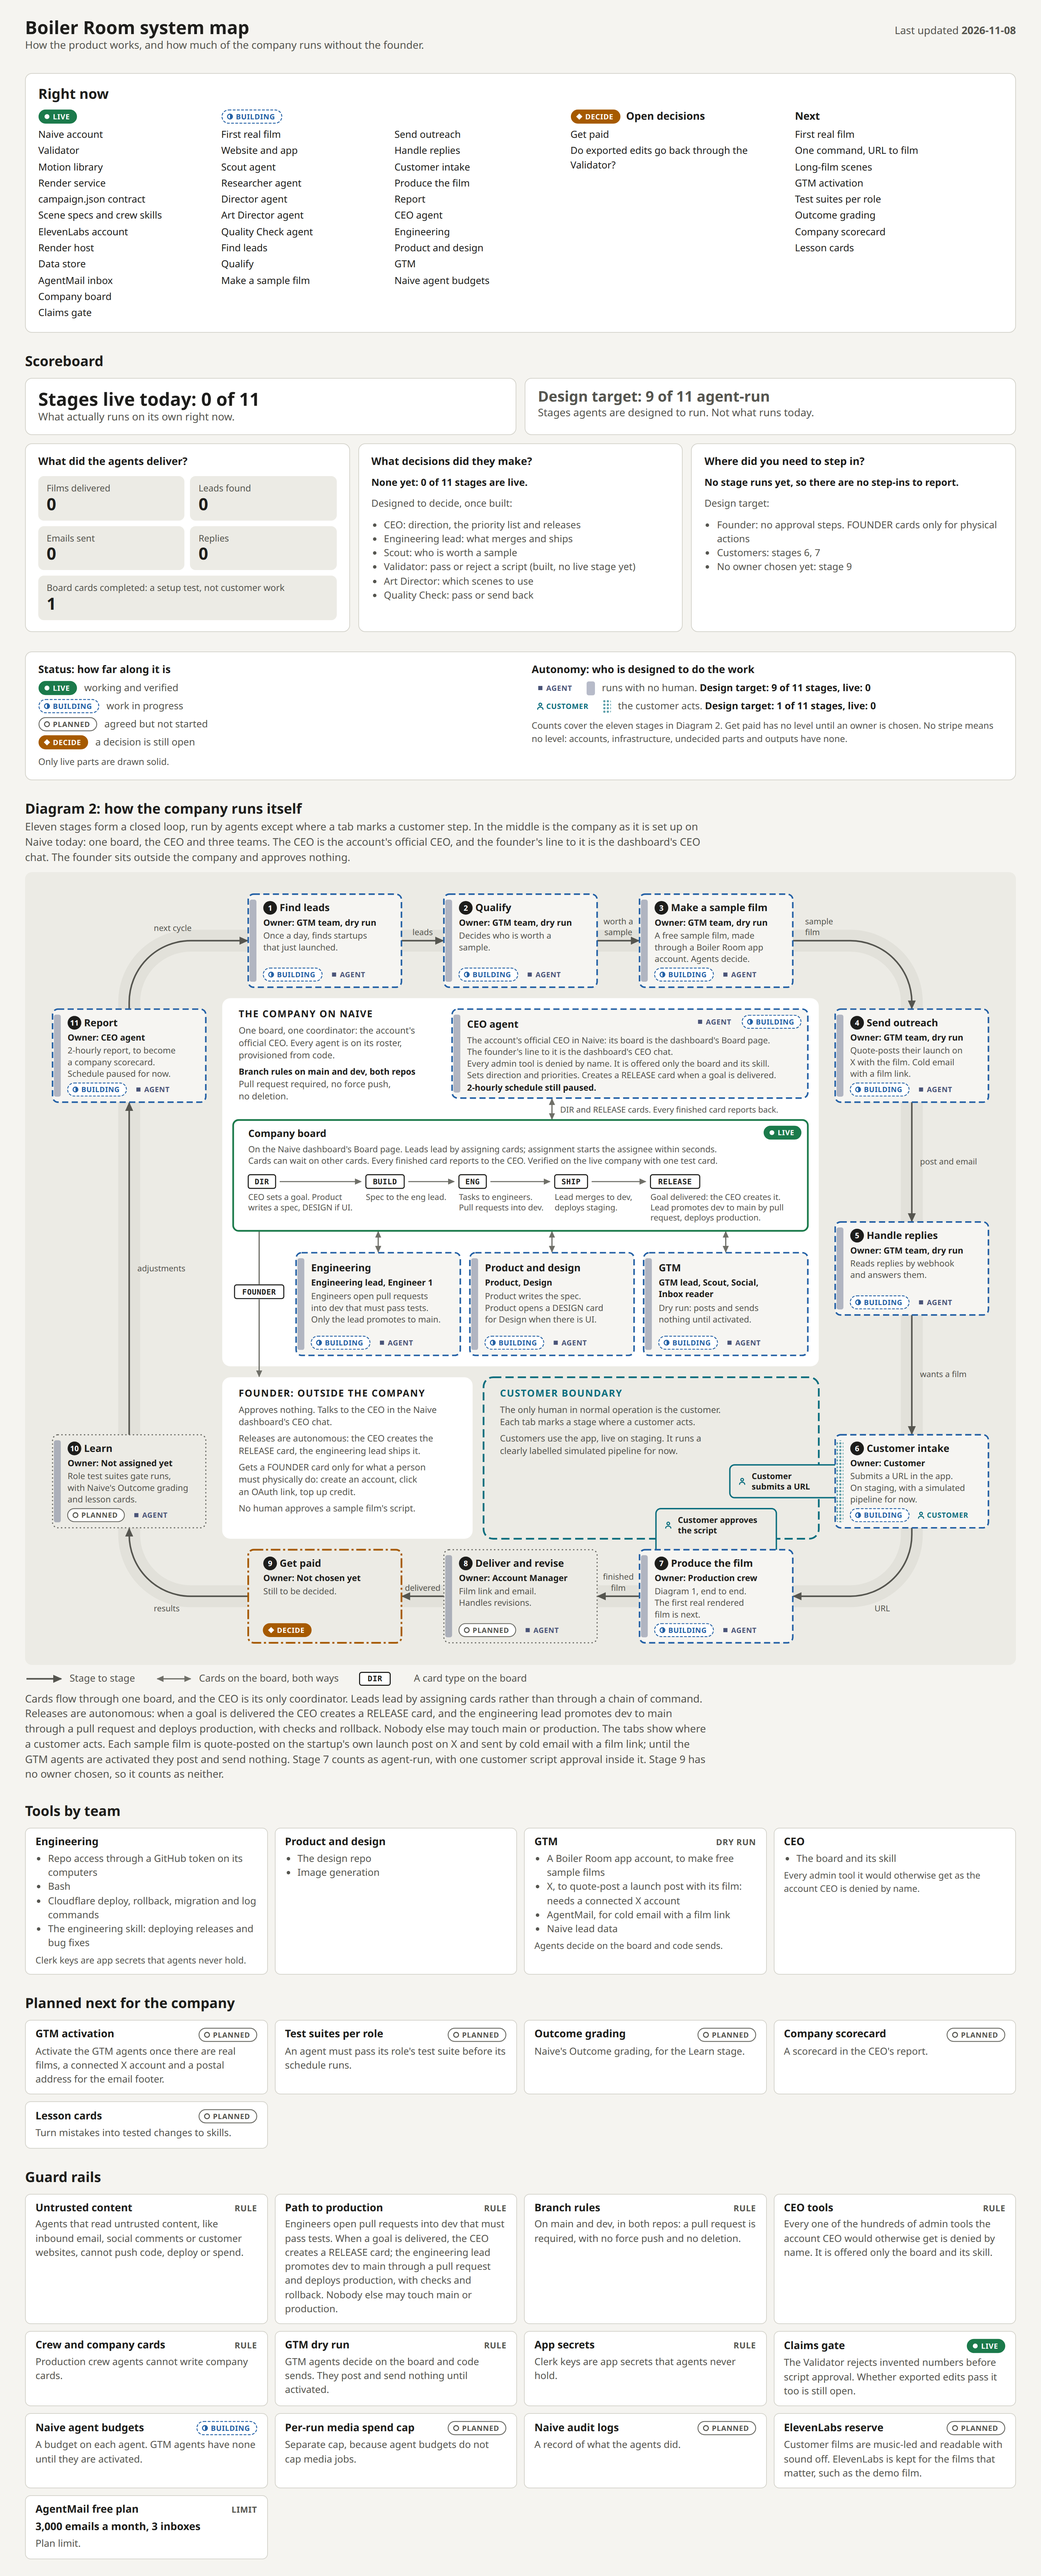
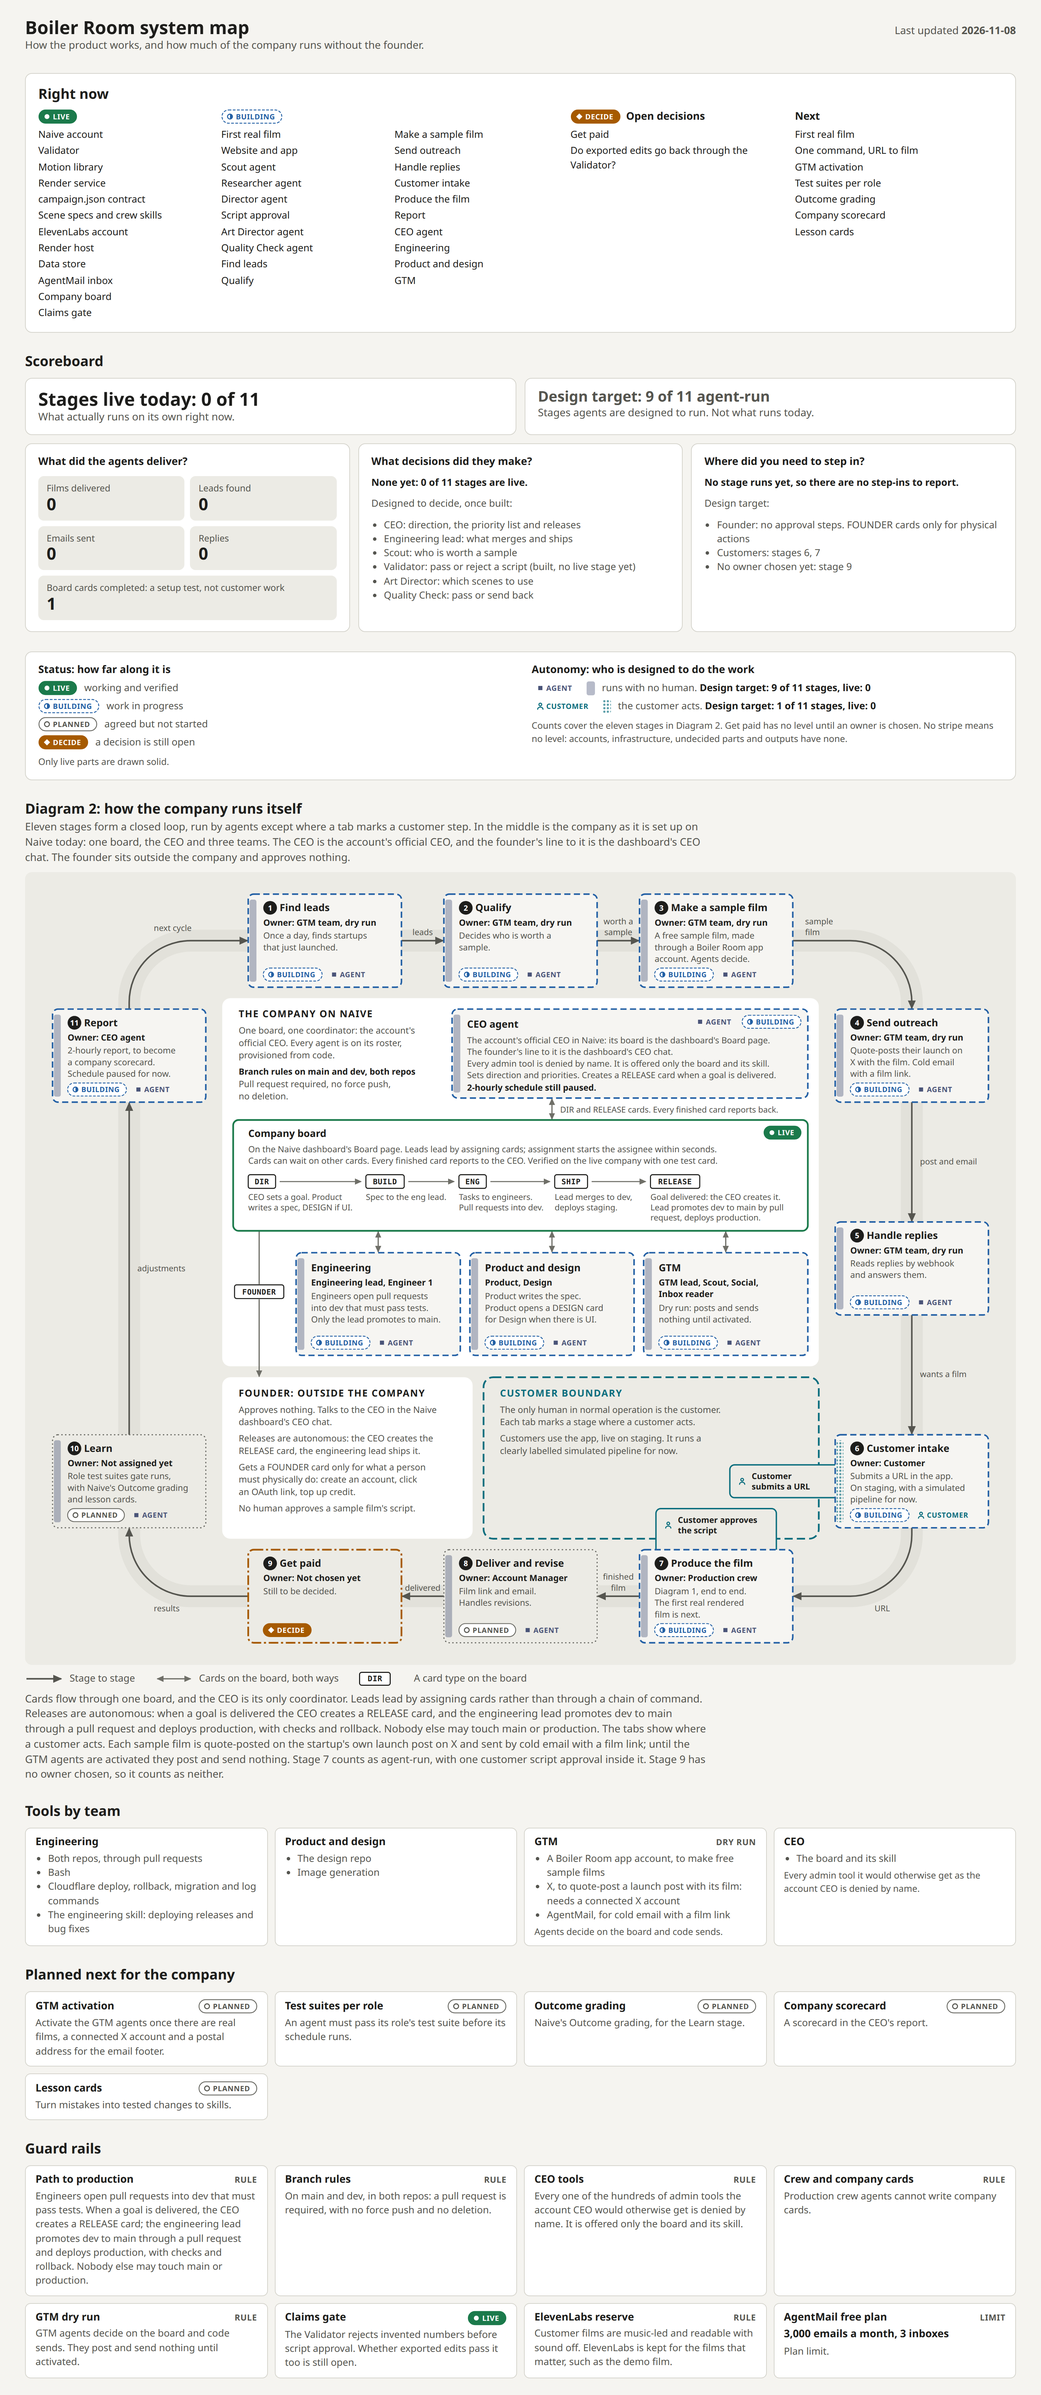
docs: align the system map with the 2026-11-08 facts
- Script approval moves to building: the app's script review is live on
  staging with a simulated pipeline.
- ElevenLabs reserve becomes a RULE: music-led customer films are current
  policy.
- Long-film scenes leave the Next list; they are reserved for the
  company's engineers, not scheduled next.
- Remove claims the current facts do not support: the render host join
  line, the untrusted content, app secrets, agent budgets, media spend
  cap and audit log rails, the Clerk keys note, Naive lead data, the
  GitHub token wording and the CEO goal check on SHIP.
- R2 is described as film storage, since no real film is stored yet.
- Shorten the motion library and campaign.json lines so they fit with a
  wider font.
- Regenerate technical.png, autonomy.png and scoreboard.png.

Claude-Session: https://claude.ai/code/session_01UKykBufjuLmqNyFJZzFeGe

diff --git a/docs/system-map/index.html b/docs/system-map/index.html
@@ -540,7 +540,7 @@
           <g data-node="motion-library" data-chips="top" transform="translate(396 798)">
             <rect class="card" width="440" height="88" rx="8"/>
             <text class="name" x="46" y="25"></text>
-            <text class="detail" x="22" y="45"><tspan class="mono">packages/motion</tspan>: Remotion. Merged, live for 4 of 15 scene types:</text>
+            <text class="detail" x="22" y="45"><tspan class="mono">packages/motion</tspan>: merged, live for 4 of 15 scene types:</text>
             <text class="detail" x="22" y="62">word-slam, site-hero, feature-card and end-card. Building now:</text>
             <text class="detail" x="22" y="79">7 more scene types and the measured transitions.</text>
           </g>
@@ -581,7 +581,7 @@
             <rect class="card" width="280" height="104" rx="8"/>
             <text class="name" x="22" y="25"></text>
             <text class="detail" x="22" y="46"><tspan class="mono">packages/schema</tspan>: the format the</text>
-            <text class="detail" x="22" y="63">Director writes and the Validator checks.</text>
+            <text class="detail" x="22" y="63">Director writes, the Validator checks.</text>
           </g>
           <g data-node="elevenlabs" data-chips="bottom" transform="translate(24 914)">
             <rect class="card" width="280" height="104" rx="8"/>
@@ -607,13 +607,12 @@
             <rect class="card" width="280" height="104" rx="8"/>
             <text class="name" x="22" y="25"></text>
             <text class="detail" x="22" y="46">Cloudflare D1, live on staging.</text>
-            <text class="detail" x="22" y="63">R2 stores the films.</text>
+            <text class="detail" x="22" y="63">R2 for film storage.</text>
           </g>
           <g data-node="render-host" data-chips="bottom" transform="translate(928 1038)">
             <rect class="card" width="280" height="104" rx="8"/>
             <text class="name" x="22" y="25"></text>
             <text class="detail" x="22" y="46">Naive computers, real renders verified.</text>
-            <text class="detail" x="22" y="63">A film split across them joins cleanly.</text>
           </g>
 
           <!-- Editing -->
@@ -966,7 +965,7 @@ const MAP = {
   counters: { filmsDelivered: 0, leadsFound: 0, emailsSent: 0, replies: 0, boardCardsCompleted: 1 },
 
   /* What comes next for the product, as ids from the lists below, in order. */
-  next: ['first-film', 'one-command', 'scene-components'],
+  next: ['first-film', 'one-command'],
 
   /* What comes next for the company, in order. Shown under Next and in its own panel. */
   companyNext: [
@@ -994,7 +993,7 @@ const MAP = {
     { id: 'researcher',       name: 'Researcher agent',        status: 'building', autonomy: 'agent',    step: 1 },
     { id: 'director',         name: 'Director agent',          status: 'building', autonomy: 'agent',    step: 2 },
     { id: 'validator',        name: 'Validator',               status: 'live',     autonomy: null,       step: 3 },
-    { id: 'script-approval',  name: 'Script approval',         status: 'planned',  autonomy: 'customer', step: 4 },
+    { id: 'script-approval',  name: 'Script approval',         status: 'building', autonomy: 'customer', step: 4 },
     { id: 'art-director',     name: 'Art Director agent',      status: 'building', autonomy: 'agent',    step: 5 },
     { id: 'motion-library',   name: 'Motion library',          status: 'live',     autonomy: null,       step: 6 },
     { id: 'audio',            name: 'Audio',                   status: 'planned',  autonomy: null,       step: 7 },
@@ -1046,27 +1045,22 @@ const MAP = {
 
   /* What each team can use. label marks a team that is not fully running yet, such as DRY RUN. */
   tools: [
-    { team: 'Engineering',        tools: ['Repo access through a GitHub token on its computers', 'Bash', 'Cloudflare deploy, rollback, migration and log commands', 'The engineering skill: deploying releases and bug fixes'], note: 'Clerk keys are app secrets that agents never hold.' },
+    { team: 'Engineering',        tools: ['Both repos, through pull requests', 'Bash', 'Cloudflare deploy, rollback, migration and log commands', 'The engineering skill: deploying releases and bug fixes'] },
     { team: 'Product and design', tools: ['The design repo', 'Image generation'] },
-    { team: 'GTM',                tools: ['A Boiler Room app account, to make free sample films', 'X, to quote-post a launch post with its film: needs a connected X account', 'AgentMail, for cold email with a film link', 'Naive lead data'], note: 'Agents decide on the board and code sends.', label: 'DRY RUN' },
+    { team: 'GTM',                tools: ['A Boiler Room app account, to make free sample films', 'X, to quote-post a launch post with its film: needs a connected X account', 'AgentMail, for cold email with a film link'], note: 'Agents decide on the board and code sends.', label: 'DRY RUN' },
     { team: 'CEO',                tools: ['The board and its skill'], note: 'Every admin tool it would otherwise get as the account CEO is denied by name.' },
   ],
 
   /* Guard rails. status null means a rule or a limit, not something being built: label says
      which. This repo is public: no account balances or credit counts here. */
   guardRails: [
-    { id: 'untrusted-content',  name: 'Untrusted content',       value: '',                                detail: 'Agents that read untrusted content, like inbound email, social comments or customer websites, cannot push code, deploy or spend.', status: null, label: 'RULE' },
     { id: 'ship-path',          name: 'Path to production',      value: '',                                detail: 'Engineers open pull requests into dev that must pass tests. When a goal is delivered, the CEO creates a RELEASE card; the engineering lead promotes dev to main through a pull request and deploys production, with checks and rollback. Nobody else may touch main or production.', status: null, label: 'RULE' },
     { id: 'branch-rules',       name: 'Branch rules',            value: '',                                detail: 'On main and dev, in both repos: a pull request is required, with no force push and no deletion.', status: null, label: 'RULE' },
     { id: 'ceo-tools',          name: 'CEO tools',               value: '',                                detail: 'Every one of the hundreds of admin tools the account CEO would otherwise get is denied by name. It is offered only the board and its skill.', status: null, label: 'RULE' },
     { id: 'crew-cards',         name: 'Crew and company cards',  value: '',                                detail: 'Production crew agents cannot write company cards.', status: null, label: 'RULE' },
     { id: 'gtm-dry-run',        name: 'GTM dry run',             value: '',                                detail: 'GTM agents decide on the board and code sends. They post and send nothing until activated.', status: null, label: 'RULE' },
-    { id: 'app-secrets',        name: 'App secrets',             value: '',                                detail: 'Clerk keys are app secrets that agents never hold.', status: null, label: 'RULE' },
     { id: 'claims-gate',        name: 'Claims gate',             value: '',                                detail: 'The Validator rejects invented numbers before script approval. Whether exported edits pass it too is still open.', status: 'live' },
-    { id: 'agent-budgets',      name: 'Naive agent budgets',     value: '',                                detail: 'A budget on each agent. GTM agents have none until they are activated.', status: 'building' },
-    { id: 'media-cap',          name: 'Per-run media spend cap', value: '',                                detail: 'Separate cap, because agent budgets do not cap media jobs.', status: 'planned' },
-    { id: 'audit-logs',         name: 'Naive audit logs',        value: '',                                detail: 'A record of what the agents did.', status: 'planned' },
-    { id: 'elevenlabs-reserve', name: 'ElevenLabs reserve',      value: '',                                detail: 'Customer films are music-led and readable with sound off. ElevenLabs is kept for the films that matter, such as the demo film.', status: 'planned' },
+    { id: 'elevenlabs-reserve', name: 'ElevenLabs reserve',      value: '',                                detail: 'Customer films are music-led and readable with sound off. ElevenLabs is kept for the films that matter, such as the demo film.', status: null, label: 'RULE' },
     { id: 'agentmail-plan',     name: 'AgentMail free plan',     value: '3,000 emails a month, 3 inboxes', detail: 'Plan limit.', status: null, label: 'LIMIT' },
   ],
 };

diff --git a/docs/system-map/README.md b/docs/system-map/README.md
@@ -11,9 +11,9 @@ Most of the eleven-stage loop is still the design, not what runs today. The scor
 As of 2026-11-08:
 
 - **Live:** Naive account, Validator, Motion library, Render service, `campaign.json` contract, Scene specs and crew skills, ElevenLabs account, Render host, Data store, AgentMail inbox, Company board, Claims gate
-- **Building:** First real film, Website and app, Scout agent, Researcher agent, Director agent, Art Director agent, Quality Check agent, Find leads, Qualify, Make a sample film, Send outreach, Handle replies, Customer intake, Produce the film, Report, CEO agent, Engineering, Product and design, GTM, Naive agent budgets
+- **Building:** First real film, Website and app, Scout agent, Researcher agent, Director agent, Script approval, Art Director agent, Quality Check agent, Find leads, Qualify, Make a sample film, Send outreach, Handle replies, Customer intake, Produce the film, Report, CEO agent, Engineering, Product and design, GTM
 - **Open decisions:** Get paid, and whether exported edits go back through the Validator
-- **Next:** First real film, One command, URL to film, Long-film scenes, GTM activation, Test suites per role, Outcome grading, Company scorecard, Lesson cards
+- **Next:** First real film, One command, URL to film, GTM activation, Test suites per role, Outcome grading, Company scorecard, Lesson cards
 
 The website, app, backend and database run on Cloudflare: Next.js on Cloudflare Workers, the D1 database, R2 film storage and Clerk sign-in on a development instance. The website and app are one app, live on staging. It is marked building because it runs a simulated pipeline, clearly labelled, until the real pipeline is connected. Production is not deployed yet. The agents and the renders run on Naive.
 
@@ -25,9 +25,9 @@ Click any image below to open it at full size. This first one stays readable at 
 
 This is the production crew: the product's own runtime, maintained by engineering and separate from the company's chain of command. Crew agents cannot write company cards. Both ways in feed one ten-step pipeline. The customer way in is the website and app on Cloudflare. Scout, the way in for leads, is a company GTM agent from Diagram 2, not part of the crew. The heavy dashed arrows are the two feedback loops. A customer approves the script of their own film in the app's script review, which shows every claim's source; for a sample film, agents decide. The DECIDE marker on the export arrow is an open question: whether an exported edit passes the Validator first.
 
-The Researcher, Director, Art Director and Quality Check agents are all being built, each with an open pull request. The Researcher runs alone on any site, ignored planted instructions and quotes claims verbatim; a fix round on summary accuracy, pop-up colours and URL safety is under way. The Director runs on Opus. The first autonomous run went from Linear's website to a validated 45-second, 18-scene script with no human step.
+The Researcher, Director, Art Director and Quality Check agents are all being built, with open pull requests. The Researcher runs alone on any site, ignored planted instructions and quotes claims verbatim; a fix round on summary accuracy, pop-up colours and URL safety is under way. The Director runs on Opus. The first autonomous run went from Linear's website to a validated 45-second, 18-scene script with no human step.
 
-The motion library is merged and live for 4 of the 15 scene types: word-slam, site-hero, feature-card and end-card. Seven more scene types and the measured transitions are being built now. The 4 long-film scenes are reserved for the company's engineers. The render service is merged and makes real renders on Naive computers. The scene specs and the crew skills are merged. The first real rendered film is next, and one command from URL to film is planned. The data store is Cloudflare D1, live on staging, and the films go to R2. The AgentMail inbox is live with the sender name Boiler Room.
+The motion library is merged and live for 4 of the 15 scene types: word-slam, site-hero, feature-card and end-card. Seven more scene types and the measured transitions are being built now. The 4 long-film scenes are reserved for the company's engineers. The render service is merged and makes real renders on Naive computers. The scene specs and the crew skills are merged. The first real rendered film is next, and one command from URL to film is planned. The data store is Cloudflare D1, live on staging, and films will be stored in R2. The AgentMail inbox is live with the sender name Boiler Room.
 
 ![Diagram 1: the ten-step pipeline, the systems it uses, and the two feedback loops](technical.png)
 
@@ -46,7 +46,7 @@ Work moves by card:
 | `DIR` | The CEO sets a goal. Product writes a spec, and opens a `DESIGN` card for Design if there is UI. |
 | `BUILD` | The spec goes to the engineering lead. |
 | `ENG` | The lead hands tasks to engineers, who open pull requests into dev that must pass tests. |
-| `SHIP` | Back to the lead, who merges into dev and deploys staging. The CEO then checks it against the goal. |
+| `SHIP` | Back to the lead, who merges into dev and deploys staging. |
 | `RELEASE` | When a goal is delivered, the CEO creates a release card. The engineering lead promotes dev to main through a pull request and deploys production, with checks and rollback. |
 
 Releases are autonomous. Only the engineering lead may touch main or production. Branch rules on main and dev, in both repos, require a pull request and forbid force pushes and deletion.
